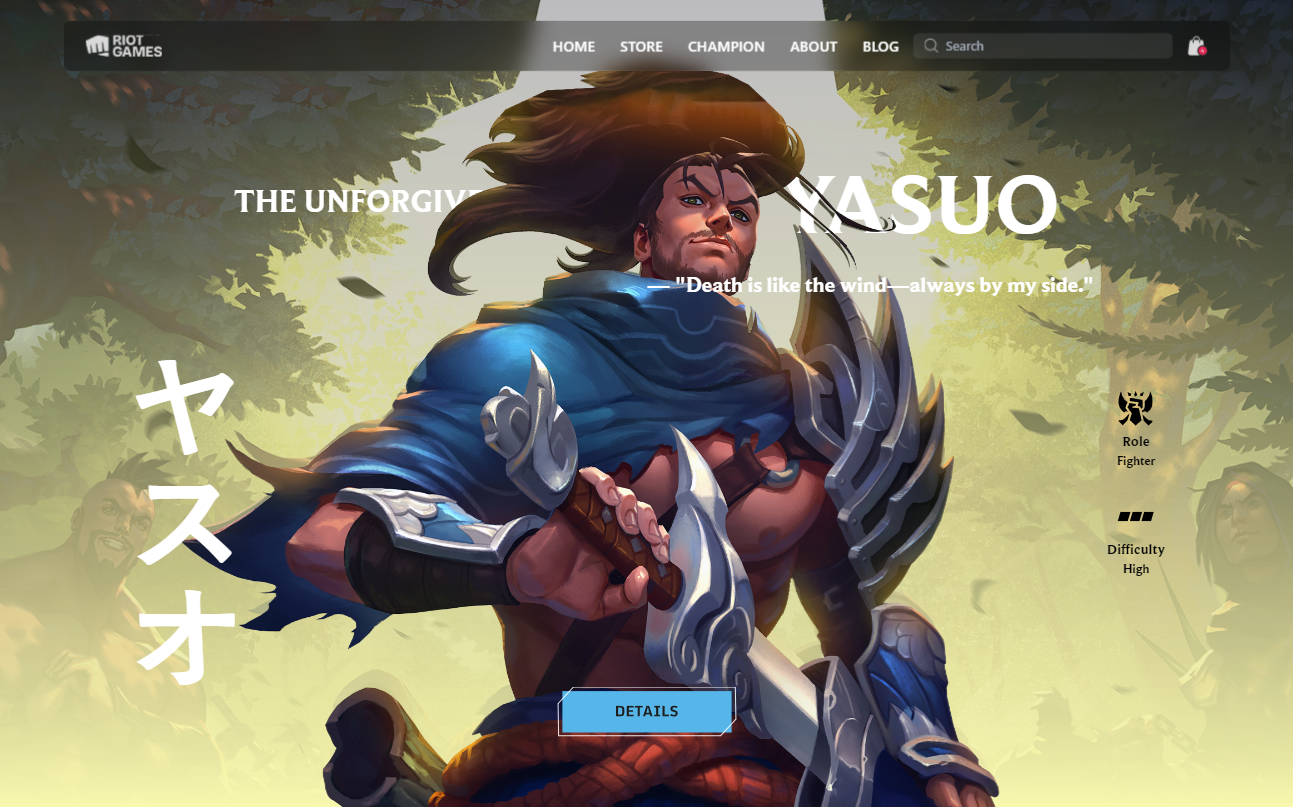
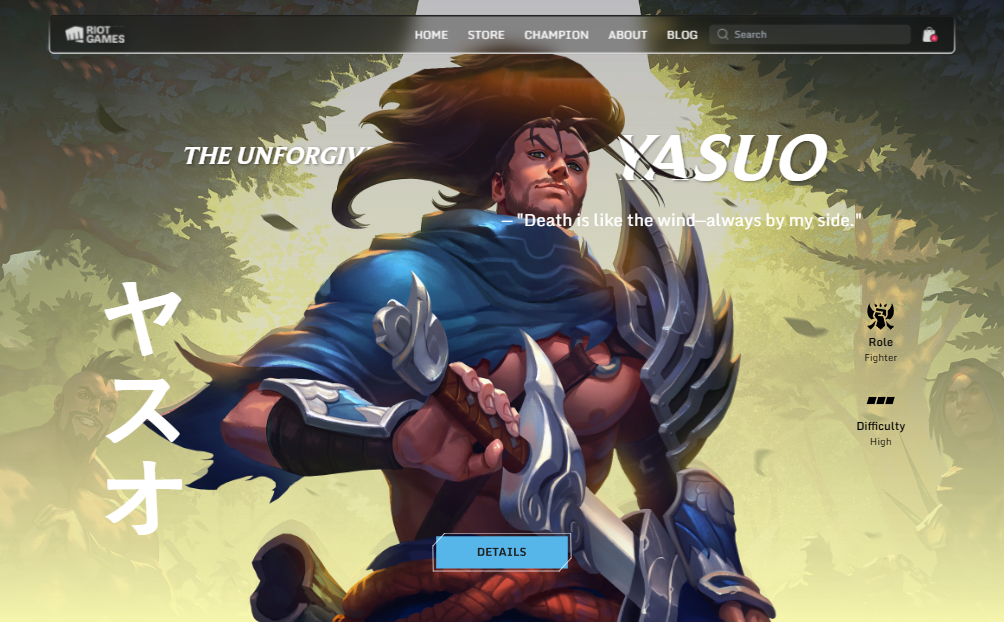
todos os detalhes foram arrumados, como a borda do header e fontes.

diff --git a/index.html b/index.html
@@ -7,6 +7,7 @@
   <link rel="stylesheet" href="style.css">
   <!-- Tailwind CDN -->
   <script src="https://cdn.tailwindcss.com"></script>
+  <link href="https://fonts.googleapis.com/css2?family=Monda:wght@400;700&display=swap" rel="stylesheet">
   <title>Riot Games</title>
 </head>
 
@@ -75,7 +76,7 @@
   <main class="relative w-full min-h-screen px-4 pt-24 text-white flex flex-col items-center">
 
     <!-- nome do champion -->
-    <div class="flex flex-row gap-[300px] items-center justify-center w-full max-w-6xl px-4 z-10 lg:-z-20">
+    <div class="flex flex-row gap-[300px] items-center justify-center w-full max-w-6xl px-4 z-10 lg:-z-20 font-lol">
       <h2 class="hidden lg:block text-2xl md:text-4xl font-bold">THE UNFORGIVEN</h2>
       <h1 class="absolute bottom-[25%] md:relative text-6xl md:text-8xl font-bold">YASUO</h1>
     </div>
@@ -88,14 +89,14 @@
     </div>
 
     <!-- Frase -->
-    <div class="mt-10 md:absolute left-[10%] top-[70%] lg:left-[50%] lg:top-[20%] flex flex-col items-center gap-0">
-      <p class="hidden md:block text-2xl font-bold">— "Death is like the wind—always by my side."</p>
+    <div class="mt-10 md:absolute left-[10%] top-[70%] lg:left-[50%] lg:top-[20%] flex flex-col items-center gap-0 monda">
+      <p class="hidden md:block text-2xl">— "Death is like the wind—always by my side."</p>
     </div>
 
     <!-- Rota e dificuldade -->
     <div class="mt-10 absolute right-[0%] top-[0%] md:right-[10%] md:top-[35%] flex flex-col gap-8 text-white xl:text-black items-center">
       <!-- Role -->
-      <div class="flex flex-col items-center text-center">
+      <div class="flex flex-col items-center text-center monda">
         <img src="./img/role-icon-branco.svg" alt="Ícone de Role" class="w-20 h-20 mb-1 xl:hidden">
         <img src="./img/role-icon.svg" alt="icone da rota" class="hidden xl:block w-10 h-10 mb-1">
         <span class="text-4xl xl:text-base font-bold">Role</span>
@@ -103,7 +104,7 @@
       </div>
 
       <!-- Difficulty -->
-      <div class="flex flex-col items-center text-center">
+      <div class="flex flex-col items-center text-center monda">
         <img src="./img/difficulty-icon-branco.svg" alt="Ícone de Dificuldade" class="w-20 h-20 mb-1 xl:hidden">
         <img src="./img/difficulty-icon.svg" alt="icone de dificuldade" class="hidden xl:block w-10 h-10 mb-1">
         <span class="text-4xl xl:text-base font-bold">Difficulty</span>

diff --git a/style.css b/style.css
@@ -5,7 +5,7 @@
 }
 
 @font-face {
-  font-family: "Beaufort for LOL Bold";
+  font-family: "Beaufort for LOL Bold"; /* vários links para ser compativel em vários navegadores diferentes */
   src: url("https://db.onlinewebfonts.com/t/12420e8c141ca7c3dff41de2d59df13e.eot");
   src: url("https://db.onlinewebfonts.com/t/12420e8c141ca7c3dff41de2d59df13e.eot?#iefix")format("embedded-opentype"),
   url("https://db.onlinewebfonts.com/t/12420e8c141ca7c3dff41de2d59df13e.woff2")format("woff2"),
@@ -15,27 +15,29 @@
 }
 
 header {
-     overflow: hidden;
+  overflow: hidden;
+  font-family: 'Monda', sans-serif;
 }
 
-header::before {
-  content: '';
+header::before { /* cria um pseudo elemento */
+  content: ''; /* define que o elemnto não tem nada */
   position: absolute;
-  inset: 0;
-  padding: 2px; /* espessura da borda */
-  background: linear-gradient(to bottom, #000000, #E2E2E2); /* vertical */
-  -webkit-mask:
-    linear-gradient(#fff 0 0) content-box,
-    linear-gradient(#fff 0 0);
-          mask-composite: exclude;
-  mask:
-    linear-gradient(#fff 0 0) content-box,
-    linear-gradient(#fff 0 0);
-  mask-composite: exclude;
-  border-radius: 0.5rem;
+  inset: 0; /* faz ele ocupar a area inteira do pai */
+  padding: 2px;
+  background: linear-gradient(to bottom, #1a1a1a, #E2E2E2);
+  -webkit-mask: /* cria uma máscara */
+    linear-gradient(#fff 0 0) content-box, /* o content box faz com que o gradiente ocupe a area de dentro excluindo o padding */
+    linear-gradient(#fff 0 0); /* cria a máscara branca na posição 0 0 */
+    mask-composite: exclude; /* faz a área da máscara ser invertida, ou seja o padding apareçe e o de dentro some */
+    border-radius: 0.5rem;
 }
 
-
-main {
+.font-lol {
   font-family: "Beaufort for LOL Bold";
+  font-style: italic;
+  text-shadow: 2px 2px 4px rgba(0, 0, 0, 0.4);
+}
+
+.monda {
+    font-family: 'Monda', sans-serif;
 }
